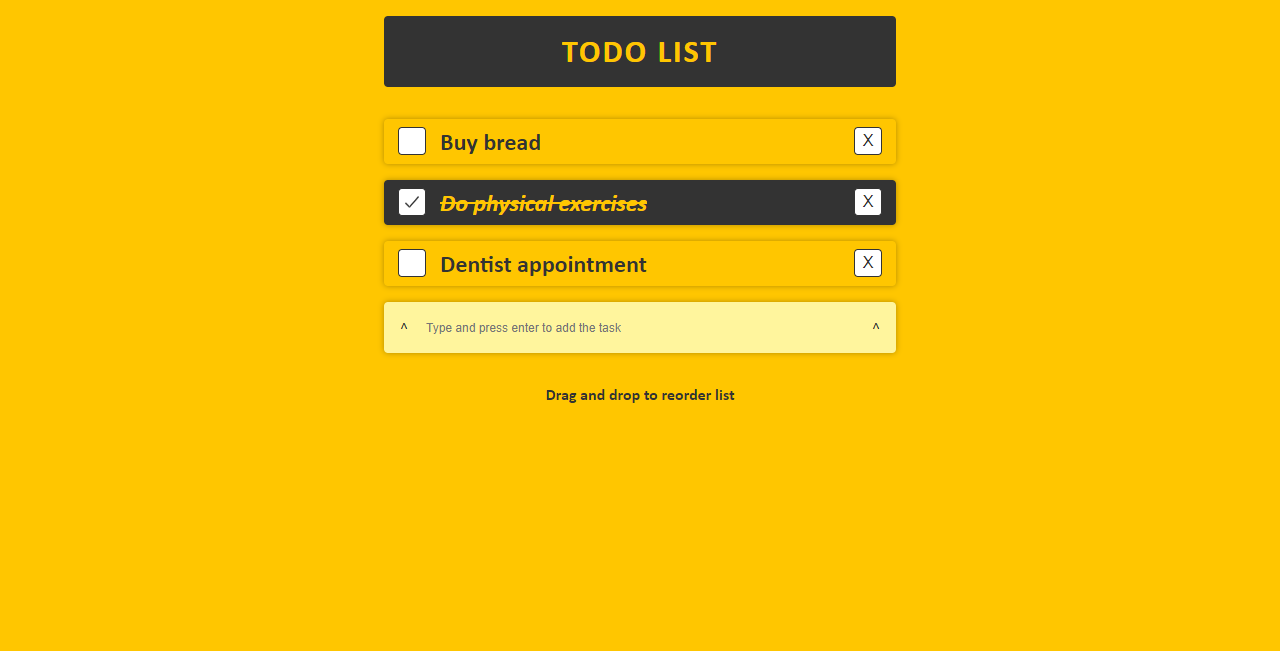
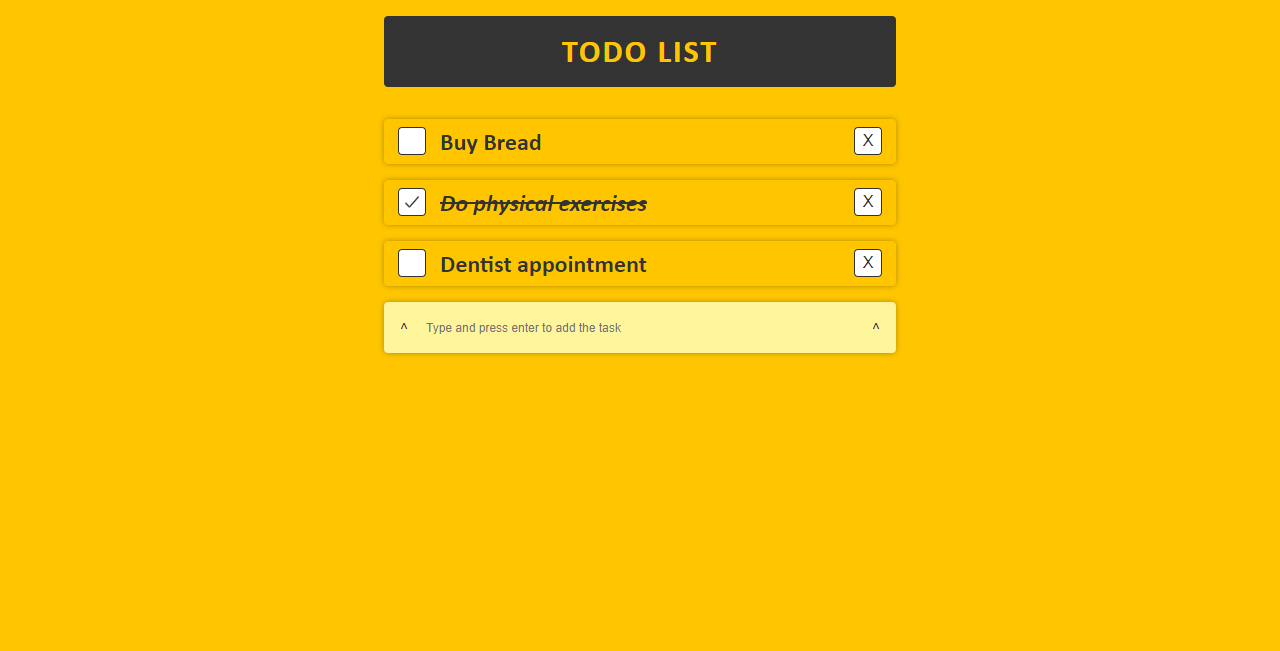
Todo List

Changed region(s): [[0.2812, 0.2765, 0.7188, 0.3687], [0.4062, 0.5837, 0.5938, 0.6144], [0.375, 0.2151, 0.4375, 0.2458]]

diff --git a/todo-list/index.html b/todo-list/index.html
@@ -3,6 +3,18 @@
   <head>
     <meta charset="UTF-8" />
     <meta name="viewport" content="width=device-width, initial-scale=1.0" />
+    <meta name="title" content="Todo List" />
+    <meta name="description" content="Todo List" />
+    <meta
+      name="keywords"
+      content="HTML, CSS, JavaScript, Todo List, Todo, List"
+    />
+    <meta name="robots" content="index, follow" />
+    <meta http-equiv="Content-Type" content="text/html; charset=utf-8" />
+    <meta name="language" content="English" />
+    <meta name="revisit-after" content="1 days" />
+    <link rel="author" href="https://github.com/JenaCarry" />
+    <meta name="author" content="JenaCarry" />
     <title>Todo List</title>
     <link rel="stylesheet" href="assets/css/style.css" />
   </head>
@@ -23,9 +35,6 @@
         <div>^</div>
       </form>
     </main>
-    <footer>
-      <h2>Drag and drop to reorder list</h2>
-    </footer>
     <script
       type="module"
       src="https://unpkg.com/ionicons@7.1.0/dist/ionicons/ionicons.esm.js"

diff --git a/todo-list/assets/js/index.js b/todo-list/assets/js/index.js
@@ -2,8 +2,6 @@ const todoList = document.querySelector(".todo-list");
 const form = document.querySelector("form");
 const createTodo = document.querySelector("#create-todo");
 
-// const todos = [];
-
 const getAllTodos = () => JSON.parse(localStorage.getItem("todos")) ?? [];
 
 const setAllTodos = (todos) =>
@@ -37,11 +35,11 @@ const createTodoItem = (todo, index) => {
   const liElement = document.createElement("li");
   liElement.classList = `todo-item ${todo.isCompleted ? "completed" : ""}`;
   liElement.innerHTML = `
-    <div class="todo-check">
-      <ion-icon name="checkmark-outline"></ion-icon>
-    </div>
-    <h2>${todo.text}</h2>
-    <button class="xmark">X</button>`;
+  <div class="todo-check">
+    <ion-icon name="checkmark-outline"></ion-icon>
+  </div>
+  <h2>${todo.text}</h2>
+  <button class="xmark">X</button>`;
   todoList.appendChild(liElement);
   liElement.addEventListener("click", (e) => {
     if (e.target.classList.contains("xmark")) {

diff --git a/todo-list/assets/css/style.css b/todo-list/assets/css/style.css
@@ -25,18 +25,13 @@ body {
 }
 
 header,
-main,
-footer {
+main {
   width: 100%;
   max-width: 32rem;
 }
 
-header,
-footer {
-  text-align: center;
-}
-
 header {
+  text-align: center;
   background-color: var(--text-color);
   padding: 1rem 0.5rem;
   border-radius: var(--rounded);
@@ -72,9 +67,13 @@ main {
   transition: all 0.2s;
 }
 
-.todo-item:hover {
+.todo-item:hover:not(.dragging) {
   color: var(--body-color);
   background-color: var(--text-color);
+}
+
+.todo-item.dragging :where(.todo-check, h2, button) {
+  opacity: 0;
 }
 
 .todo-check {
@@ -134,8 +133,4 @@ form {
   outline: none;
   border-color: transparent;
   background-color: #fff59d;
-}
-
-footer h2 {
-  font-size: 1rem;
 }

diff --git a/todo-list/README.md b/todo-list/README.md
@@ -2,6 +2,8 @@
   <h2>Todo List</h2>
 </div>
 
+- Live Site URL: [https://jenacarry.github.io/projects/todo-list/](https://jenacarry.github.io/projects/todo-list/)
+
 ## Screenshot
 
 <div align="center">
@@ -9,7 +11,3 @@
 ![](./assets/images/screenshot.png)
 
 </div>
-
-- Live Site URL: [https://jenacarry.github.io/projects/todo-list/](https://jenacarry.github.io/projects/todo-list/)
-
-# Finalizando
